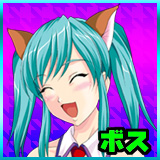
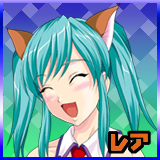
gacha広告追加

diff --git a/app/Controller/GachasController.php b/app/Controller/GachasController.php
@@ -24,7 +24,7 @@ class GachasController extends ApiController {
     public $gachaFree = array( GACHA_MONEY_ID , GACHA_MONEY_10_ID );
 
     // 課金ガチャID
-    public $gachaPoint = array( GACHA_PREMIUM_ID , GACHA_10_ID, GACHA_SOZAI_ID );
+    public $gachaPoint = array( GACHA_PREMIUM_ID , GACHA_10_ID, GACHA_SOZAI_ID , GACHA_RARE_ID, GACHA_RARE_10_ID );
 
 
     /**

diff --git a/app/Config/const.php b/app/Config/const.php
@@ -278,6 +278,10 @@ define("GACHA_MONEY_ID", 3 );
 define("GACHA_SOZAI_ID", 4 );
 // 無課金10連ガチャID
 define("GACHA_MONEY_10_ID", 5 );
+// レアガチャID
+define("GACHA_RARE_ID", 6 );
+// レア10連ガチャID
+define("GACHA_RARE_10_ID", 7 );
 
 
 /**
